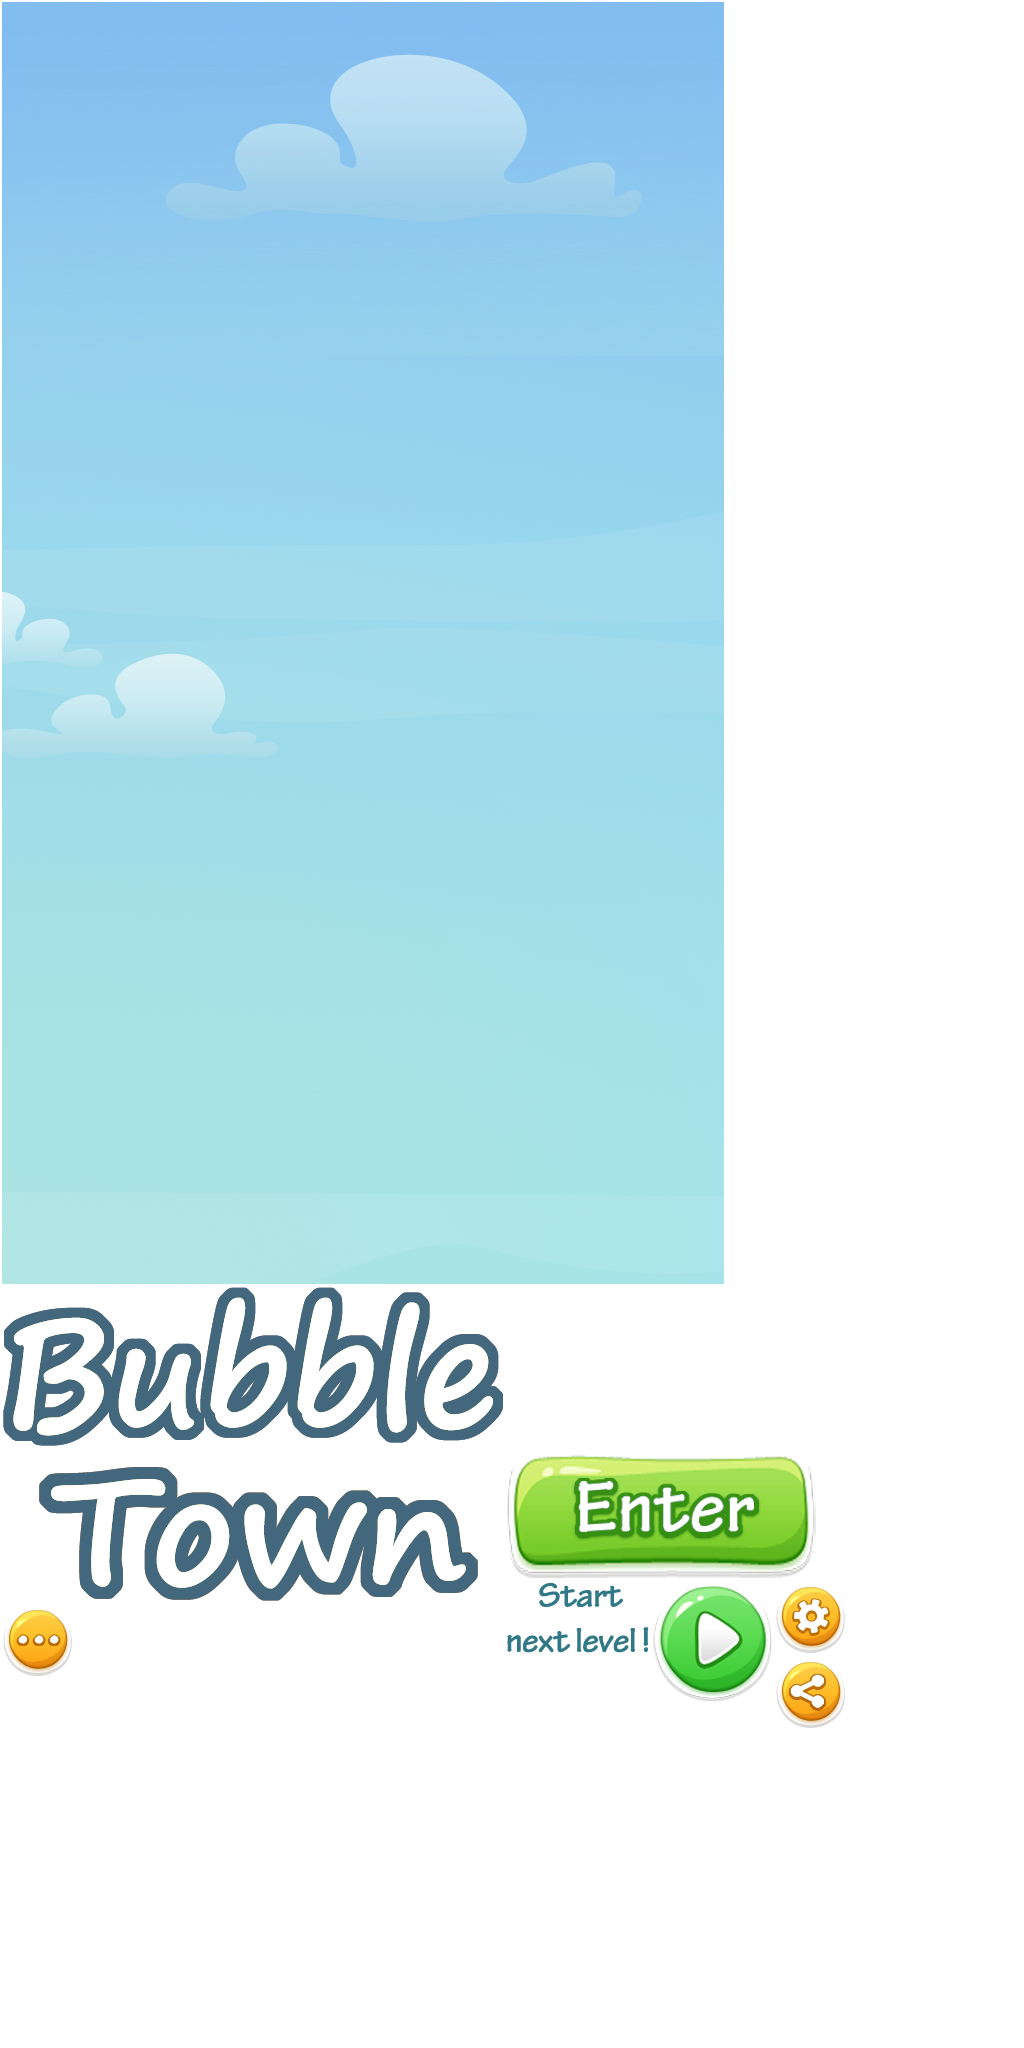
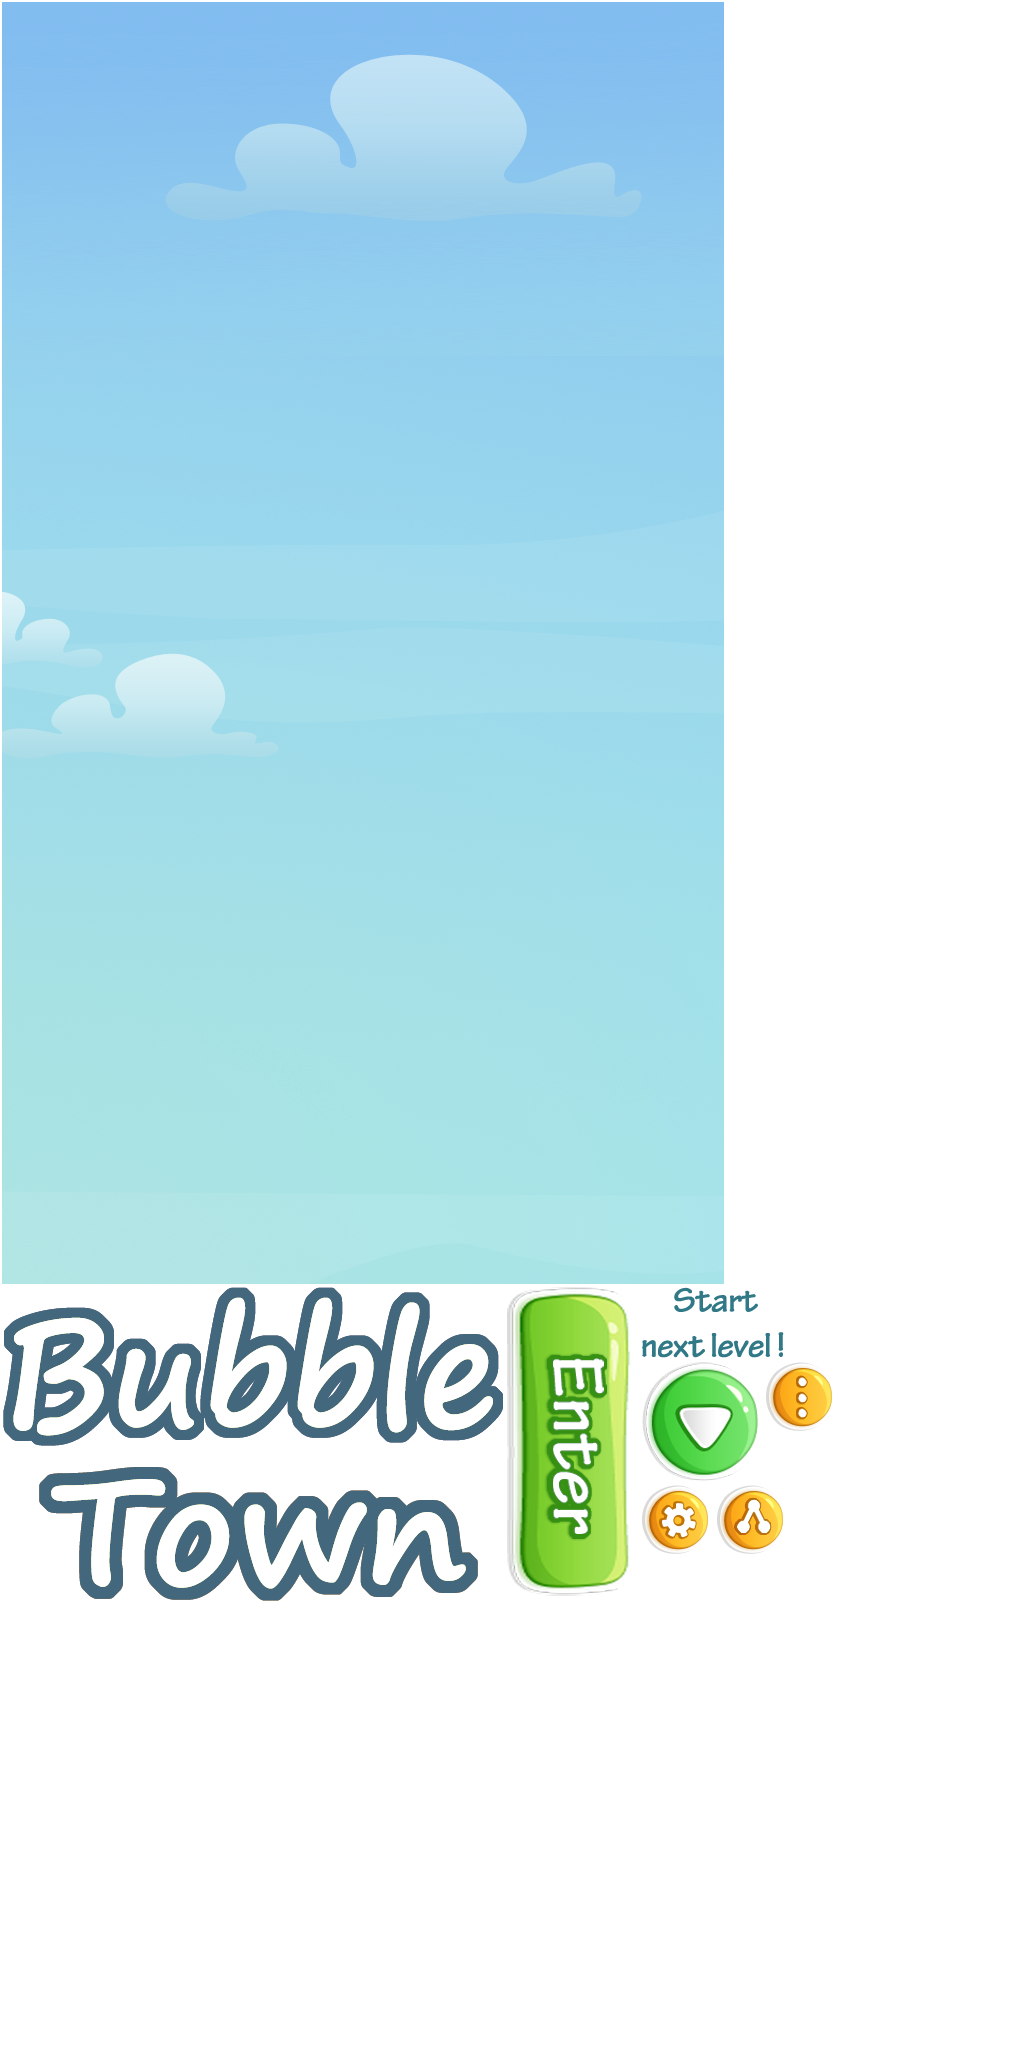
utouch based gui is correctly loaded and rendered in game for the first time !

Changed region(s): [[0.4688, 0.625, 0.8438, 0.8438], [0.0, 0.7812, 0.0625, 0.8438]]

diff --git a/02-bubble-town/Classes/Services/BtGui_utouch_NodeBuilder.cpp b/02-bubble-town/Classes/Services/BtGui_utouch_NodeBuilder.cpp
@@ -19,16 +19,19 @@ BtUINodeBuilder_utouch::BtUINodeBuilder_utouch(const cocos2d::Vec2& designRes, c
 {
     if (designRes.x > 0 && designRes.y > 0 && runtimeRes.x > 0 && runtimeRes.y > 0)
     {
-        float widthScale = designRes.x / runtimeRes.x;
-        float heightScale = designRes.y / runtimeRes.y;
+        float widthScale = runtimeRes.x / designRes.x;
+        float heightScale = runtimeRes.y / designRes.y;
         m_scaleRatio = std::min(widthScale, heightScale);   // for safety we choose the smaller ratio
+
+        m_designRes = designRes;
+        m_runtimeRes = runtimeRes;
     }
 
     m_creators[BtStr_RootNode]  = [](){ return cocos2d::Node::create(); };
     m_creators[BtStr_ImageNode] = [](){ return cocos2d::ui::ImageView::create(); };
 
     using namespace std::placeholders;
-    m_builders[BtStr_RootNode]  = std::bind(&BtUINodeBuilder_utouch::BuildRootNode, this, _1, _2);
+    m_builders[BtStr_RootNode]  = std::bind(&BtUINodeBuilder_utouch::BuildNode, this, _1, _2);
     m_builders[BtStr_ImageNode] = std::bind(&BtUINodeBuilder_utouch::BuildImage, this, _1, _2);
 }
 
@@ -49,26 +52,46 @@ cocos2d::Node* BtUINodeBuilder_utouch::Create(const std::string& nodeType, const
     return node;
 }
 
+cocos2d::Vec2 BtUINodeBuilder_utouch::GetScaled(const rapidjson::Value& desc, const char* prop)
+{
+    auto v = BtJsonValue::GetVec2Prop(desc, prop);
+    if (!BtIsValid(v))
+        return v;
+
+    return cocos2d::Vec2(v.x * m_scaleRatio, v.y * m_scaleRatio);
+}
+
 bool BtUINodeBuilder_utouch::BuildNode(cocos2d::Node* destNode, const rapidjson::Value& desc)
 {
     BT_EXPECT_RET_V2(destNode, "invalid cc node.", false);
 
-    cocos2d::Vec2 pos = BtJsonValue::GetVec2Prop(desc, "Position");
-    cocos2d::Vec2 size = BtJsonValue::GetVec2Prop(desc, "Size");
+    cocos2d::ui::Widget* widget = dynamic_cast<cocos2d::ui::Widget*>(destNode);
+    if (widget)
+        widget->ignoreContentAdaptWithSize(false);
+
+    cocos2d::Vec2 pos = GetScaled(desc, "Position");
+    cocos2d::Vec2 size = GetScaled(desc, "Size");
     BT_EXPECT_RET_V2(BtIsValid(pos) && BtIsValid(size), "property parsing failed.", false);
 
+    destNode->setAnchorPoint(cocos2d::Vec2(0.0f, 1.0f)); // use upper-left corner for alignment
+    destNode->setContentSize(cocos2d::Size(size));
+    destNode->setPosition(pos.x, m_runtimeRes.y - pos.y);
 
-    return true;
-}
-
-bool BtUINodeBuilder_utouch::BuildRootNode(cocos2d::Node* destNode, const rapidjson::Value& desc)
-{
-    BT_LOG("root node '%s' is being created.", BtJsonValue::GetStrProp(desc, "Name"));
     return true;
 }
 
 bool BtUINodeBuilder_utouch::BuildImage(cocos2d::Node* destNode, const rapidjson::Value& desc)
 {
+    if (!BuildNode(destNode, desc))
+        return false;
+    
+    std::string tileName = BtJsonValue::GetResProp(desc, "Res");
+    BT_EXPECT_RET_V2(tileName.size(), "resource of the image not found or not specified", false);
+
+    cocos2d::ui::ImageView* imageView = dynamic_cast<cocos2d::ui::ImageView*>(destNode);
+    BT_EXPECT_RET_V2(imageView, "node type is not ImageView when calling BuildImage()", false);
+    imageView->loadTexture(tileName, cocos2d::ui::Widget::TextureResType::PLIST);
+
     BT_LOG("image node '%s' is being created.", BtJsonValue::GetStrProp(desc, "Name"));
     return true;
 }

diff --git a/02-bubble-town/Classes/Core/BtCoreUtil.h b/02-bubble-town/Classes/Core/BtCoreUtil.h
@@ -41,17 +41,10 @@ void BtSetLogMode(BtLogMode mode);
 
 /* ----- BT_EXPECT family ----- */
 
-#define BT_DUMMY_FUNC   [](){}          
-
 void BtLogUnexpected(const char* exprStr, const std::string& errContext, const std::string& errMsg);
 
-#define BT_EXPECT(expr, errMsg, callback)                   if (!(expr)) { BtLogUnexpected(#expr, __FUNCTION__, errMsg); callback(); }
-#define BT_EXPECT_RET(expr, errMsg, callback)               if (!(expr)) { BtLogUnexpected(#expr, __FUNCTION__, errMsg); callback(); return; }
-#define BT_EXPECT_RET_VAL(expr, errMsg, callback, retVal)   if (!(expr)) { BtLogUnexpected(#expr, __FUNCTION__, errMsg); callback(); return retVal; }
-#define BT_EXPECT_RET_BOOL(expr, errMsg, callback)          if (!(expr)) { BtLogUnexpected(#expr, __FUNCTION__, errMsg); callback(); return false; }
 //TODO: add debugger checking inside these macros (break immediately on failure if a debugger is attached)
+#define BT_EXPECT_V2(expr, errMsg)              if (!(expr)) { BtLogUnexpected(#expr, __FUNCTION__, errMsg); }
+#define BT_EXPECT_RET_V2(expr, errMsg, ret)     if (!(expr)) { BtLogUnexpected(#expr, __FUNCTION__, errMsg); return ret; }
+#define BT_UNEXPECTED(errMsg)                   { BtLogUnexpected("<null>", __FUNCTION__, errMsg); }
 
-#define BT_EXPECT_V2(expr, errMsg)                      if (!(expr)) { BtLogUnexpected(#expr, __FUNCTION__, errMsg); }
-#define BT_EXPECT_RET_V2(expr, errMsg, ret)             if (!(expr)) { BtLogUnexpected(#expr, __FUNCTION__, errMsg); return ret; }
-
-#define BT_UNEXPECTED(errMsg)                           { BtLogUnexpected("<null>", __FUNCTION__, errMsg); }

diff --git a/02-bubble-town/Classes/Services/BtTestServices.cpp b/02-bubble-town/Classes/Services/BtTestServices.cpp
@@ -37,8 +37,8 @@ void BtTestServices::Destroy()
 
 bool BtTestServices::RegisterTest(const BtTest& test)
 {
-    BT_EXPECT_RET_BOOL(!test.name.empty(), "invalid test name", BT_DUMMY_FUNC);
-    BT_EXPECT_RET_BOOL(test.func, "no test func specified", BT_DUMMY_FUNC);
+    BT_EXPECT_RET_V2(test.name.size(), "invalid test name", false);
+    BT_EXPECT_RET_V2(test.func, "no test func specified", false);
 
     // prerequisite checking
     auto& testList = m_tests[test.stage];
@@ -54,7 +54,7 @@ bool BtTestServices::RegisterTest(const BtTest& test)
             }
         }
 
-        BT_EXPECT_RET_BOOL(found, tfm::format("test has a prerequisite '%s' but not found in existing test list.", test.prerequisite), BT_DUMMY_FUNC);
+        BT_EXPECT_RET_V2(found, tfm::format("test has a prerequisite '%s' but not found in existing test list.", test.prerequisite), false);
     }
 
     // always append the test at the tail so that it always runs after its prerequisite

diff --git a/02-bubble-town/Classes/Scenes/Scene_Bubble/BtBubbleScene.cpp b/02-bubble-town/Classes/Scenes/Scene_Bubble/BtBubbleScene.cpp
@@ -33,8 +33,9 @@ static std::string _json_doc_to_string(const rapidjson::Document& doc)
 // for unexpected error when entering bubble scene: 
 //      when something is unexpectedly, seriously and horribly wrong, 
 //      we would try to recover from the situation and return to the town scene immediately
-static auto fnBackToTownScene = []() { BT_POST_LUA_AND_FLUSH(BtMsgID::GotoScene, BTSCN_town); };
-#define BT_EXPECT_BubbleSceneEnter(expr, errMsg)  BT_EXPECT_RET(expr, errMsg, fnBackToTownScene)
+static auto fnBackToTown = []() { BT_POST_LUA_AND_FLUSH(BtMsgID::GotoScene, BTSCN_town); };
+#define BT_EXPECT_BubbleSceneEnter(expr, errMsg)  \
+    BT_EXPECT_RET_V2(expr, errMsg, fnBackToTown())   // fnBackToTown() is called immediately so BT_EXPECT_RET_V2() still returns nothing
 
 BtBubbleScene::BtBubbleScene() 
     : m_btLoot(nullptr)

diff --git a/02-bubble-town/Classes/Services/BtGui_utouch_Util.cpp b/02-bubble-town/Classes/Services/BtGui_utouch_Util.cpp
@@ -48,6 +48,18 @@ cocos2d::Vec2 BtJsonValue::GetVec2Prop(const rapidjson::Value& vm, const char* p
     return v;
 }
 
+std::string BtJsonValue::GetResProp(const rapidjson::Value& vm, const char* propName)
+{
+    std::string val = GetStrProp(vm, propName);
+    BT_EXPECT_RET_V2(val.size(), tfm::format("property (%s) not found.", propName), "");
+
+    size_t pos = val.rfind(":"); 
+    BT_EXPECT_RET_V2(pos != std::string::npos, tfm::format("the value (%s) of property (%s) is invalid.", val, propName), "");
+
+    std::string ret = val.substr(pos + 1);
+    return ret;
+}
+
 bool BtJsonValue::IsRootNode(const rapidjson::Value& val)
 {
     std::string typeInfo = BtJsonValue::GetStrProp(val, "__type_info__");

diff --git a/02-bubble-town/Classes/AppStartScene.cpp b/02-bubble-town/Classes/AppStartScene.cpp
@@ -15,6 +15,7 @@
 #include "Core/BtMsgDispatcher.h"
 
 #include "Services/BtLuaService.h"
+#include "Services/BtGui_utouch.h"
 
 const char* const MENU_Bubble  = "Bubble";
 const char* const MENU_Town    = "Town";
@@ -76,6 +77,13 @@ bool AppStartScene::init()
         menuPos.y = origin.y + visibleSize.height / 4;
         menuMain->setPosition(menuPos);
         root->addChild(menuMain, 1);
+    }
+
+    {
+        auto node = BtGui_utouch::LoadLayout("ui/titlescreen");
+        node->setAnchorPoint(cocos2d::Vec2::ZERO);
+        node->setPosition(origin);
+        root->addChild(node, 1);
     }
 
     addChild(root, 1);

diff --git a/02-bubble-town/Classes/Services/BtGui_utouch.cpp b/02-bubble-town/Classes/Services/BtGui_utouch.cpp
@@ -62,8 +62,8 @@ cocos2d::Node* BtGui_utouch::LoadLayoutRecursively(BtUINodeBuilder_utouch* build
             if (it->IsObject())
             {
                 const rapidjson::Value& name = (*it)["Name"];
-                BT_VERB("reading layout element '%s'...", name.IsString() ? name.GetString() : "<null>" );
-                
+                BT_VERB("reading layout element '%s'...", name.IsString() ? name.GetString() : "<null>");
+
                 auto subNode = LoadLayoutRecursively(builder, *it);
                 if (subNode)
                 {

diff --git a/02-bubble-town/Classes/Scenes/BtBaseScene.cpp b/02-bubble-town/Classes/Scenes/BtBaseScene.cpp
@@ -71,8 +71,8 @@ void BtBaseScene::onExit()
 
 void BtBaseScene::registerLuaHandler(cocos2d::ui::Button* widget, const std::string& name /*= ""*/)
 {
-    BT_EXPECT_RET(widget, "invalid widget.", [](){});
-    BT_EXPECT_RET(name.size() || widget->getName().size(), "widget name not specified.", [](){});
+    BT_EXPECT_RET_V2(widget, "invalid widget.");
+    BT_EXPECT_RET_V2(name.size() || widget->getName().size(), "widget name not specified.");
 
     std::string scnName = getSceneName();
     std::string regName = name;

diff --git a/02-bubble-town/Classes/Services/BtGui_utouch_NodeBuilder.h b/02-bubble-town/Classes/Services/BtGui_utouch_NodeBuilder.h
@@ -25,11 +25,14 @@ public:
 
 private:
     float m_scaleRatio;
+    cocos2d::Vec2 m_designRes;
+    cocos2d::Vec2 m_runtimeRes;
 
     creatorMap_t  m_creators;
     builderMap_t  m_builders;
 
     bool BuildNode(cocos2d::Node* destNode, const rapidjson::Value& desc);
-    bool BuildRootNode(cocos2d::Node* destNode, const rapidjson::Value& desc);
     bool BuildImage(cocos2d::Node* destNode, const rapidjson::Value& desc);
+
+    cocos2d::Vec2 GetScaled(const rapidjson::Value& desc, const char* prop);
 };

diff --git a/02-bubble-town/Classes/Services/BtGui_utouch_Util.h b/02-bubble-town/Classes/Services/BtGui_utouch_Util.h
@@ -20,7 +20,9 @@ class BtJsonValue
 public:
     static int GetIntProp(const rapidjson::Value& vm, const char* propName);
     static std::string GetStrProp(const rapidjson::Value& vm, const char* propName);
+
     static cocos2d::Vec2 GetVec2Prop(const rapidjson::Value& vm, const char* propName);
+    static std::string GetResProp(const rapidjson::Value& vm, const char* propName);
 
     static bool IsRootNode(const rapidjson::Value& val);
 };
